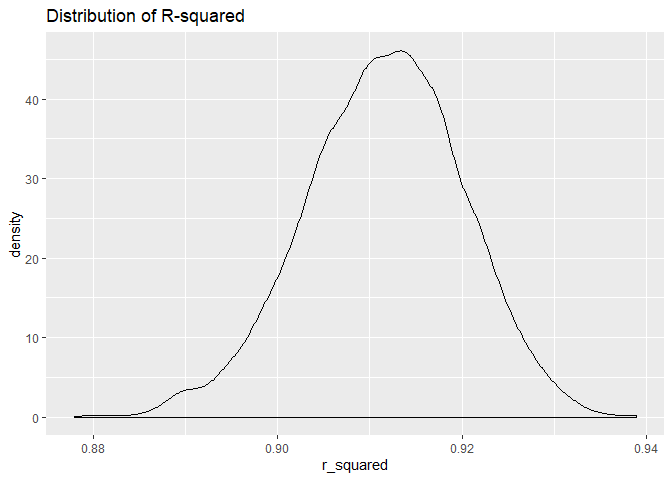
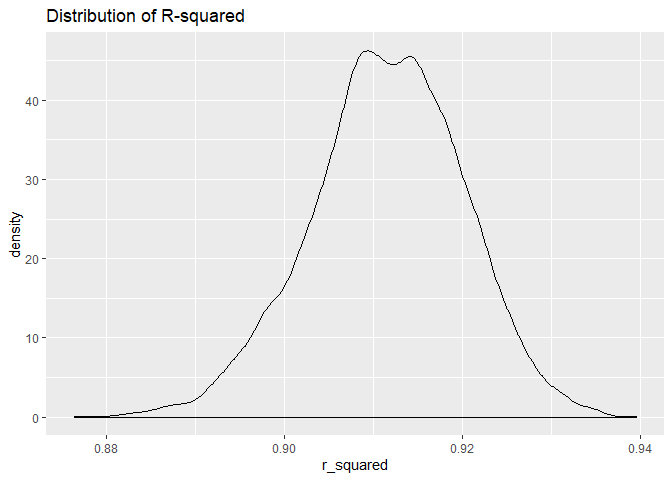
update graph

diff --git a/p8105_hw6_yq2251.md b/p8105_hw6_yq2251.md
@@ -533,8 +533,11 @@ modelr::add_predictions(final_model) %>%
 ```
 
 ![](p8105_hw6_yq2251_files/figure-gfm/unnamed-chunk-15-1.png)<!-- -->
+Most of the predicted values are ranging 2000-4000, slightly left skewed
+with few outlines. The residuals ranging 1000- (-1000).Red line was
+shown at y intercept=0
 
-Build example Model 1
+Build example Model
 
 ``` r
 Exp_M1 = lm(bwt ~ blength + gaweeks, data = bw_tidy)
@@ -593,9 +596,6 @@ cv_df =
          rmse_Exp_M2 = map2_dbl(Exp_M2, test, ~rmse(model = .x, data = .y)))
 ```
 
-    ## Warning in predict.lm(model, data): prediction from a rank-deficient fit
-    ## may be misleading
-    
     ## Warning in predict.lm(model, data): prediction from a rank-deficient fit
     ## may be misleading
 
@@ -673,14 +673,14 @@ quantile(weather_r2$r_squared, 0.025)
 ```
 
     ##      2.5% 
-    ## 0.8939153
+    ## 0.8939025
 
 ``` r
 quantile(weather_r2$r_squared, 0.975)
 ```
 
     ##     97.5% 
-    ## 0.9274801
+    ## 0.9274108
 
 The 95% confidence interval for R-squared is (0.894, 0.927).
 
@@ -695,14 +695,14 @@ quantile(weather_betas$boot_betas, 0.025)
 ```
 
     ##     2.5% 
-    ## 1.966682
+    ## 1.964778
 
 ``` r
 quantile(weather_betas$boot_betas, 0.975)
 ```
 
     ##    97.5% 
-    ## 2.059679
+    ## 2.058477
 
 The 95% confidence interval for log(beta0\*beta1) is (1.965, 2.061).
 
